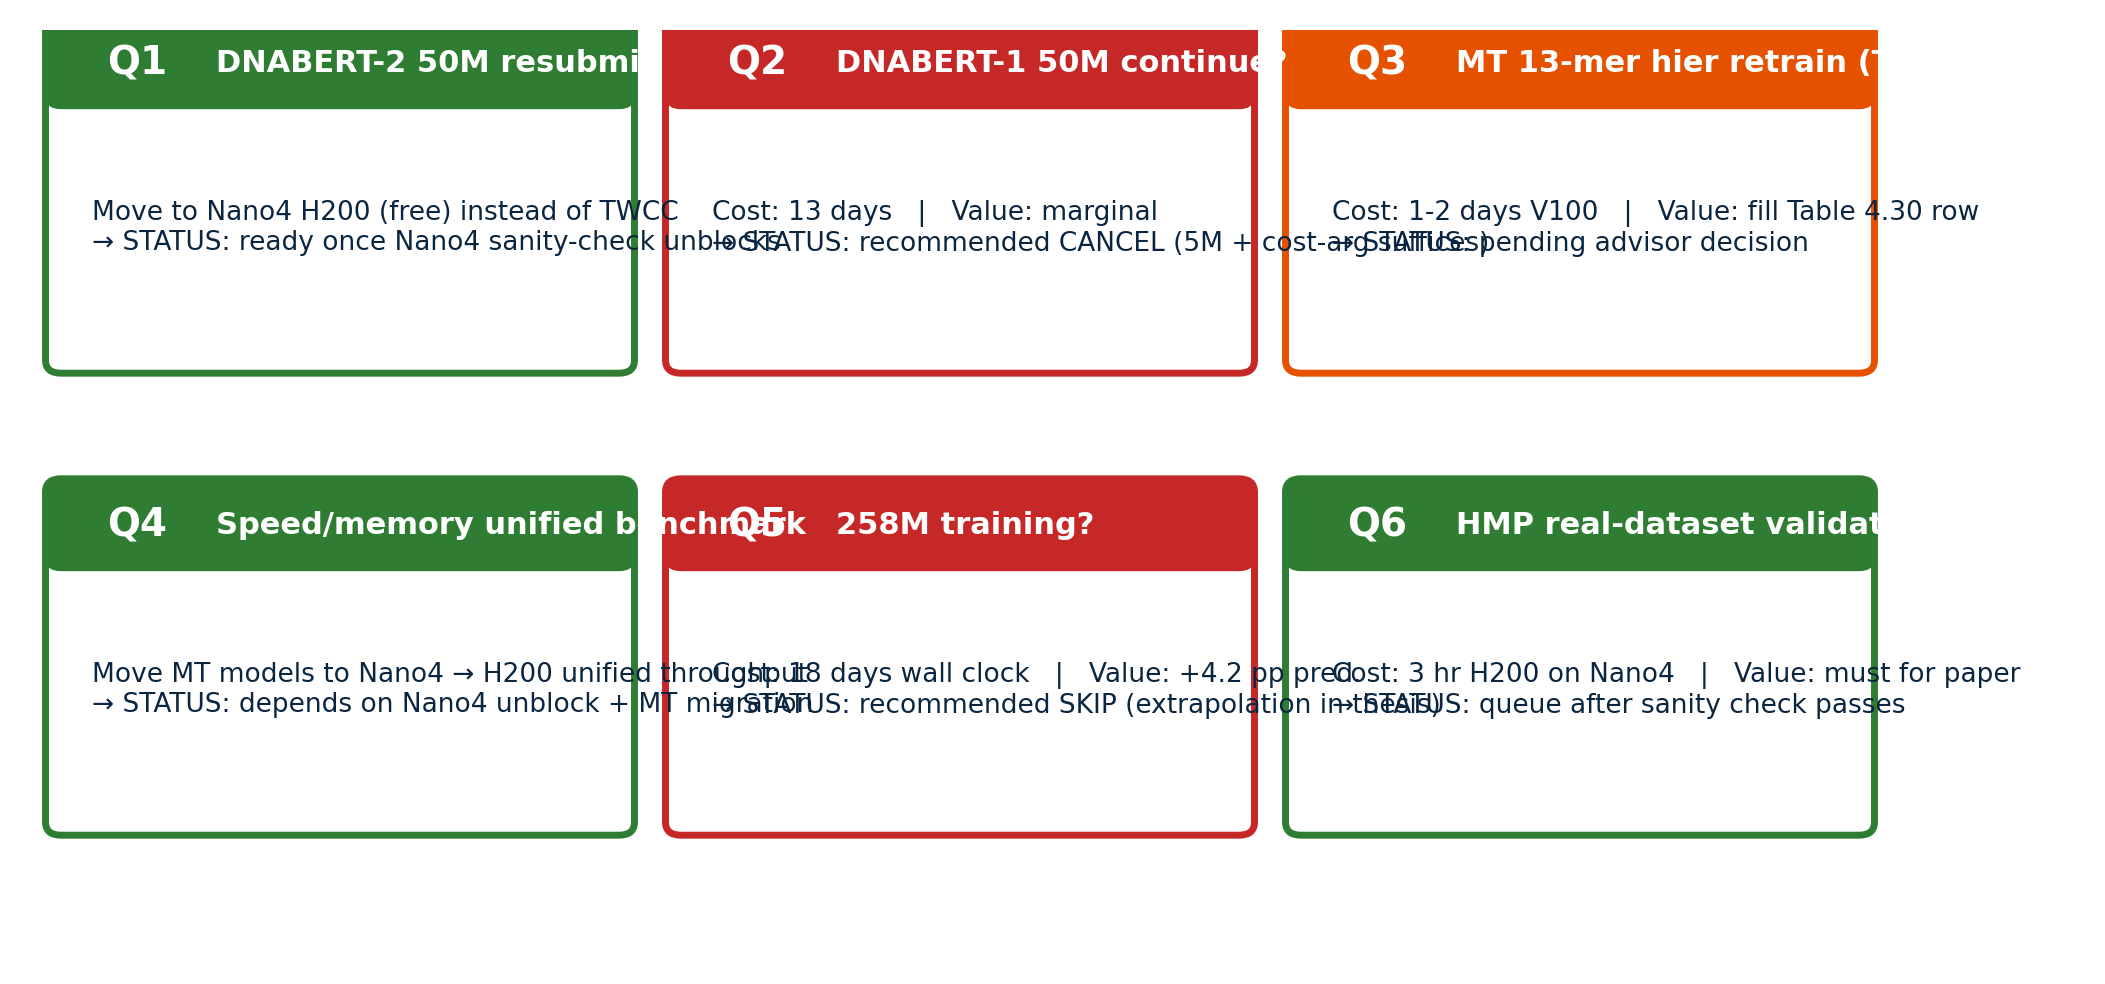
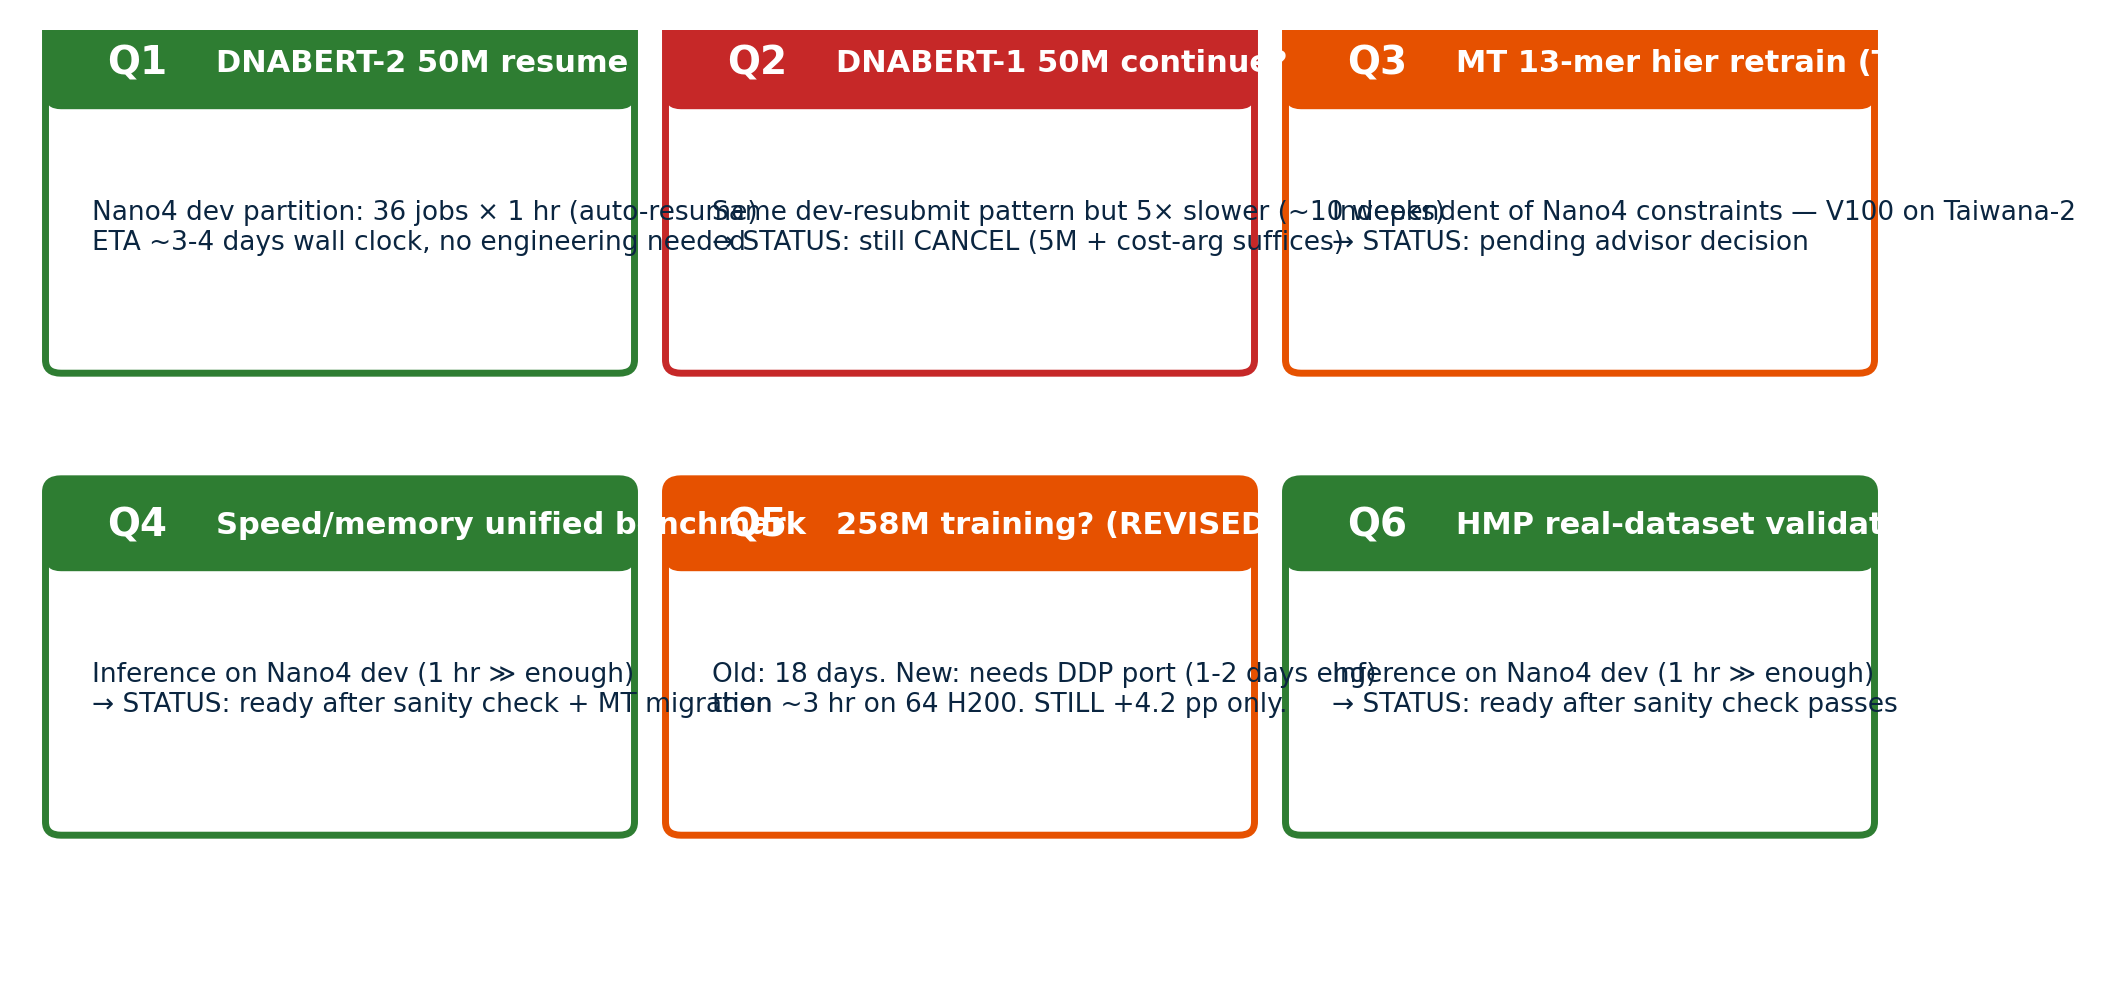
Meeting 6/2 deck: revise with Nano4 partition constraints
- Budget slide now shows Nano4 dev (1 hr, single-GPU) vs normal (12 hr, 64 GPU min)
- Decision Q5 (258M) revised from 'skip' to 'DDP port worth it?' — Nano4 normal
  makes it technically viable in 1-2 days engineering + ~3 hr compute, but
  +4.2 pp value unchanged
- Priorities split 4-way: Taiwana-2/CPU | Nano4 dev | DDP port required | not doing
- Asks revised: Q1 confirm dev-only path, Q2 weigh DDP port for 258M
- Script updated with Nano4 hardware spec + DDP cost analysis Q&A

diff --git a/docs/slides/make_meeting_2026_0602.py b/docs/slides/make_meeting_2026_0602.py
@@ -217,23 +217,23 @@ def fig_decisions_matrix():
     ax.set_xlim(0, 12); ax.set_ylim(0, 7); ax.axis("off")
 
     decisions = [
-        ("Q1", "DNABERT-2 50M resubmit",
-         "Move to Nano4 H200 (free) instead of TWCC\n→ STATUS: ready once Nano4 sanity-check unblocks",
+        ("Q1", "DNABERT-2 50M resume",
+         "Nano4 dev partition: 36 jobs × 1 hr (auto-resume)\nETA ~3-4 days wall clock, no engineering needed",
          GREEN),
         ("Q2", "DNABERT-1 50M continue?",
-         "Cost: 13 days   |   Value: marginal\n→ STATUS: recommended CANCEL (5M + cost-arg suffices)",
+         "Same dev-resubmit pattern but 5× slower (~10 weeks)\n→ STATUS: still CANCEL (5M + cost-arg suffices)",
          RED),
         ("Q3", "MT 13-mer hier retrain (Taiwana-2)?",
-         "Cost: 1-2 days V100   |   Value: fill Table 4.30 row\n→ STATUS: pending advisor decision",
+         "Independent of Nano4 constraints — V100 on Taiwana-2\n→ STATUS: pending advisor decision",
          ORANGE),
         ("Q4", "Speed/memory unified benchmark",
-         "Move MT models to Nano4 → H200 unified throughput\n→ STATUS: depends on Nano4 unblock + MT migration",
+         "Inference on Nano4 dev (1 hr ≫ enough)\n→ STATUS: ready after sanity check + MT migration",
          GREEN),
-        ("Q5", "258M training?",
-         "Cost: 18 days wall clock   |   Value: +4.2 pp pred.\n→ STATUS: recommended SKIP (extrapolation in thesis)",
-         RED),
+        ("Q5", "258M training? (REVISED)",
+         "Old: 18 days. New: needs DDP port (1-2 days eng)\nthen ~3 hr on 64 H200. STILL +4.2 pp only.",
+         ORANGE),
         ("Q6", "HMP real-dataset validation",
-         "Cost: 3 hr H200 on Nano4   |   Value: must for paper\n→ STATUS: queue after sanity check passes",
+         "Inference on Nano4 dev (1 hr ≫ enough)\n→ STATUS: ready after sanity check passes",
          GREEN),
     ]
 
@@ -253,39 +253,63 @@ def fig_decisions_matrix():
 
 
 def fig_budget_status():
-    """TWCC budget out — but Nano4 H200 free 1-month unblocks everything."""
-    fig, ax = plt.subplots(figsize=(11.5, 4.2))
-    ax.set_xlim(0, 12); ax.set_ylim(0, 5); ax.axis("off")
+    """TWCC out → Nano4 H200 free 1-month, but partition constraints matter."""
+    fig, ax = plt.subplots(figsize=(12, 5.2))
+    ax.set_xlim(0, 12); ax.set_ylim(0, 6); ax.axis("off")
 
-    # Top: dual-status banner
-    ax.add_patch(FancyBboxPatch((0.3, 3.2), 5.6, 1.3, boxstyle="round,pad=0.1",
-                                 linewidth=2.5, edgecolor=RED, facecolor="#FFEBEE"))
-    ax.text(3.1, 4.15, "⚠ TWCC (Nano5) wallet: -802.5 pts",
-            ha="center", fontsize=12, fontweight="bold", color=RED)
-    ax.text(3.1, 3.65, "Cannot sbatch new jobs", ha="center", fontsize=10, color=RED)
+    # Top banner: TWCC vs Nano4
+    ax.add_patch(FancyBboxPatch((0.3, 4.4), 5.6, 1.3, boxstyle="round,pad=0.1",
+                                 linewidth=2, edgecolor=RED, facecolor="#FFEBEE"))
+    ax.text(3.1, 5.3, "⚠ TWCC (Nano5) wallet: -802.5 pts",
+            ha="center", fontsize=11.5, fontweight="bold", color=RED)
+    ax.text(3.1, 4.75, "Cannot sbatch new jobs", ha="center", fontsize=9.5, color=RED)
 
-    ax.add_patch(FancyBboxPatch((6.1, 3.2), 5.6, 1.3, boxstyle="round,pad=0.1",
-                                 linewidth=2.5, edgecolor=GREEN, facecolor="#E8F5E9"))
-    ax.text(8.9, 4.15, "✓ Nano4 H200: FREE 1 month",
-            ha="center", fontsize=12, fontweight="bold", color=GREEN)
-    ax.text(8.9, 3.65, "Repo cloned, env up, sanity check blocked on deps",
+    ax.add_patch(FancyBboxPatch((6.1, 4.4), 5.6, 1.3, boxstyle="round,pad=0.1",
+                                 linewidth=2, edgecolor=GREEN, facecolor="#E8F5E9"))
+    ax.text(8.9, 5.3, "✓ Nano4: FREE 1 month, 220 nodes × 8 H200",
+            ha="center", fontsize=11.5, fontweight="bold", color=GREEN)
+    ax.text(8.9, 4.75, "But partition rules constrain single-GPU jobs",
             ha="center", fontsize=9.5, color=GREEN)
 
-    # Three columns: done / blocked / needs unblock
-    cols = [
-        ("✓ Done (no GPU needed)", GREEN,
-         "• GitHub repo published\n• 4 envs STATUS.md filled\n• Thesis 139 pp w/ Table 4.30\n• Per-genus 13-mer (55.93%)"),
-        ("→ In progress on Nano4", TEAL,
-         "• Env setup (✓ conda, deps, data)\n• Sanity check (✗ transformers ver.)\n• Need: downgrade transformers\n• Need: sync DNABERT-2 last.pt"),
-        ("→ Once Nano4 unblocked", GOLD,
-         "• DNABERT-2 50M resume (36 hr)\n• Speed/memory benchmark (3 hr)\n• HMP real-dataset (3 hr)\n• Per-genus 13-mer realign"),
+    # Partition table
+    ax.text(6.0, 4.1, "Nano4 Slurm partitions:", ha="center",
+            fontsize=11, fontweight="bold", color=NAVY)
+
+    headers = ["partition", "max time", "min GPU", "concurrent", "fits our jobs?"]
+    rows = [
+        ["dev",    "1 hr",  "no limit (1 GPU OK)", "5 run / 5 pend",  "inference, benchmark, eval, realign ✓"],
+        ["normal", "12 hr", "min 64 GPU (8 nodes)", "5 run / 5 pend", "training jobs only if DDP-ported ⚠"],
     ]
-    for i, (title, color, body) in enumerate(cols):
-        x = 0.3 + i * 4.0
-        ax.add_patch(FancyBboxPatch((x, 0.2), 3.6, 2.6, boxstyle="round,pad=0.1",
-                                     linewidth=2, edgecolor=color, facecolor=WHITE))
-        ax.text(x + 1.8, 2.55, title, ha="center", fontsize=11, fontweight="bold", color=color)
-        ax.text(x + 0.2, 1.4, body, fontsize=9.5, color=NAVY, va="center")
+    col_x = [0.3, 1.8, 3.0, 5.4, 7.4]
+    col_w = [1.4, 1.2, 2.4, 1.9, 4.5]
+    y_h = 3.55
+    # Header row
+    for j, h in enumerate(headers):
+        ax.add_patch(Rectangle((col_x[j], y_h), col_w[j], 0.4,
+                                facecolor=NAVY, edgecolor="white"))
+        ax.text(col_x[j] + col_w[j]/2, y_h + 0.2, h,
+                ha="center", va="center", fontsize=9.5, color="white", fontweight="bold")
+    # Data rows
+    for i, row in enumerate(rows):
+        y = y_h - (i + 1) * 0.45
+        fc = "#FFF8E1" if i == 1 else "#E3F2FD"
+        for j, v in enumerate(row):
+            ax.add_patch(Rectangle((col_x[j], y), col_w[j], 0.45,
+                                    facecolor=fc, edgecolor="white"))
+            ax.text(col_x[j] + col_w[j]/2, y + 0.22, v,
+                    ha="center", va="center", fontsize=9, color=NAVY)
+
+    # Bottom: implications
+    ax.add_patch(FancyBboxPatch((0.3, 0.15), 11.4, 1.3, boxstyle="round,pad=0.1",
+                                 linewidth=2, edgecolor=GOLD, facecolor="#FFF8E1"))
+    ax.text(6.0, 1.25, "Implications for our pipeline",
+            ha="center", fontsize=11, fontweight="bold", color=GOLD)
+    ax.text(0.6, 0.85, "• Inference / eval / sample-level benchmark (NT-v2, MT, DNABERT-2 eval) — all fit `dev` 1 hr cap ✓",
+            fontsize=9.5, color=NAVY)
+    ax.text(0.6, 0.55, "• DNABERT-2 50M resume — single-GPU, can do dev resubmits (~3-4 days wall clock, auto-resume from last.pt)",
+            fontsize=9.5, color=NAVY)
+    ax.text(0.6, 0.25, "• 258M training (if pursued) — needs DDP port (1-2 days eng) → then ~3 hr on 64 H200; OR not feasible",
+            fontsize=9.5, color=NAVY)
 
     plt.savefig(TMP / "budget.png"); plt.close()
 
@@ -521,38 +545,43 @@ add_header(s, "Recommended Priorities · Next 2 Weeks",
            accent=GREEN, page=9, total=TOTAL)
 
 add_textbox(s,
-    "Immediate (CPU / no GPU needed)",
+    "Now (Taiwana-2 / CPU — no Nano4 needed)",
     Inches(0.5), Inches(1.0), Inches(12.3), Inches(0.5),
-    font_size=16, bold=True, color=GREEN)
+    font_size=15, bold=True, color=GREEN)
 add_textbox(s,
-    "• Realign Per-genus 13-mer (Exp F) on Taiwana-2 → integrate in-DB row of Table 4.30\n"
-    "• Thesis figure regeneration with new aligned MT numbers (53.7%, 94.25%)\n"
-    "• Thesis Section 4.13 proofreading + format consistency check\n"
-    "• Optional: MT 13-mer hier retraining on Taiwana-2 (Q3)",
-    Inches(0.5), Inches(1.5), Inches(12.3), Inches(1.6),
-    font_size=12, color=NAVY, align="left", bg="#E8F5E9", border=GREEN)
+    "• Realign Per-genus 13-mer (Exp F) on Taiwana-2 → integrate Table 4.30\n"
+    "• Thesis figure regeneration with aligned MT numbers (53.7%, 94.25%)\n"
+    "• Section 4.13 proofreading + format check  ·  optional MT 13-mer hier retrain (Q3)",
+    Inches(0.5), Inches(1.5), Inches(12.3), Inches(1.2),
+    font_size=11.5, color=NAVY, align="left", bg="#E8F5E9", border=GREEN)
 
 add_textbox(s,
-    "After Nano4 sanity check unblocks (~45 GPU-hr on H200, FREE)",
-    Inches(0.5), Inches(3.3), Inches(12.3), Inches(0.5),
-    font_size=16, bold=True, color=GOLD)
+    "Fits Nano4 dev partition (1-hr jobs, single-GPU)",
+    Inches(0.5), Inches(2.9), Inches(12.3), Inches(0.5),
+    font_size=15, bold=True, color=TEAL)
 add_textbox(s,
-    "• Sync DNABERT-2 50M last.pt → resume training (36 hr H200 from epoch 17)\n"
-    "• Migrate MT model checkpoints from Taiwana-2 → Nano4\n"
-    "• Run speed/memory unified benchmark on H200 (3 hr) — must-do, advisor ask\n"
-    "• HMP mock community real-dataset inference (3 hr) — paper submission prep",
-    Inches(0.5), Inches(3.8), Inches(12.3), Inches(1.6),
-    font_size=12, color=NAVY, align="left", bg="#FFF8E1", border=GOLD)
+    "• Sanity check NT-Species inference (BLOCKED — fix transformers==4.35.2 first)\n"
+    "• DNABERT-2 50M resume — 36 dev resubmits w/ auto-resume from last.pt (~3-4 days)\n"
+    "• Speed/memory unified benchmark on H200 (~30 min wall clock)\n"
+    "• HMP mock community real-dataset inference (~30 min) — paper prep",
+    Inches(0.5), Inches(3.4), Inches(12.3), Inches(1.6),
+    font_size=11.5, color=NAVY, align="left", bg="#E3F2FD", border=TEAL)
 
 add_textbox(s,
-    "Recommended NOT to do (advisor confirm if disagree)",
-    Inches(0.5), Inches(5.6), Inches(12.3), Inches(0.5),
-    font_size=16, bold=True, color=RED)
+    "Requires DDP port (1-2 days eng) for Nano4 normal partition",
+    Inches(0.5), Inches(5.2), Inches(12.3), Inches(0.5),
+    font_size=15, bold=True, color=GOLD)
 add_textbox(s,
-    "• DNABERT-1 50M continue: ~300 GPU-hr / 13 days — 5M evidence + 11.7 hr/epoch cost argument suffices\n"
-    "• 258M training: ~290 GPU-hr / 18 days — log-fit predicts +4.2 pp, does not cross tokenisation gap",
-    Inches(0.5), Inches(6.1), Inches(12.3), Inches(1.1),
-    font_size=12, color=NAVY, align="left", bg="#FFEBEE", border=RED)
+    "• 258M training (genus +species) — DDP code rewrite, then ~few hr on 64 H200.\n"
+    "  Value: log-fit predicts +4.2 pp, does NOT cross tokenisation gap (MT 13-mer 87.4%)\n"
+    "  → Cost-benefit: 1-2 days engineering for marginal acc improvement",
+    Inches(0.5), Inches(5.7), Inches(12.3), Inches(1.0),
+    font_size=11.5, color=NAVY, align="left", bg="#FFF8E1", border=GOLD)
+
+add_textbox(s,
+    "Not doing — DNABERT-1 50M (300 GPU-hr / 5× slower than DNABERT-2 — single dev partition impractical, ~10 weeks)",
+    Inches(0.5), Inches(6.85), Inches(12.3), Inches(0.4),
+    font_size=10.5, color=RED, align="left", bg="#FFEBEE", border=RED)
 
 
 # ─── SLIDE 10: Ask + Questions ────────────────────────────────────────────
@@ -565,14 +594,15 @@ add_textbox(s,
     font_size=18, bold=True, color=NAVY)
 
 qs = [
-    ("1", "Migration plan: Nano4 takes over",
-     "Confirm Nano4 (H200, free 1-month) replaces TWCC as primary GPU. "
-     "DNABERT-2 resumes on Nano4. TWCC dormant. Speed benchmark on H200. OK?",
+    ("1", "Use Nano4 dev partition for our pipeline",
+     "Nano4 normal needs 64 GPU min (DDP-only). Plan: all our inference + DNABERT-2 "
+     "resume go on dev (1-hr jobs, auto-resume). Speed benchmark / HMP / Per-genus realign "
+     "all fit. OK?",
      GREEN),
-    ("2", "DNABERT-1 50M — final call",
-     "Cancel. Use 5M acc (61.78%) + 11.7 hr/epoch cost vs NT-v2's 2.8 hr "
-     "as deployment-limitation evidence in thesis. Agreed?",
-     RED),
+    ("2", "258M training — DDP port worth it?",
+     "Nano4 normal makes 258M technically viable: 1-2 days DDP port + few hours on 64 H200. "
+     "Predicted gain: +4.2 pp (log-fit), does NOT cross tokenisation gap. Pursue or skip?",
+     ORANGE),
     ("3", "Per-genus 13-mer Exp F integration",
      "Once Taiwana-2 sends realigned predictions, add 4th row to Table 4.30 "
      "showing 55.93% (3rd router-quality data point validating monotonic theorem). OK?",

diff --git a/docs/meetings/meeting_2026_0602_script.md b/docs/meetings/meeting_2026_0602_script.md
@@ -98,76 +98,76 @@ MT 13-mer 對所有 reads 都給 prediction，所以在 low-cardinality task 反
 
 ---
 
-## Slide 7 — Blocker · TWCC Budget vs Nano4 Unblock
+## Slide 7 — Blocker · TWCC Budget vs Nano4 Partition Rules
 
-這張是這週狀況最大變化的一張。**雙 banner**：
+這張是這次最重要的「重新評估」slide。
 
-**紅** · TWCC (Nano5) wallet -802.5 點，5/30 開始無法 sbatch 新 job
-**綠** · Nano4 H200 **免費 1 個月**，repo 已 clone、env 已 setup、data 已 rsync，但 sanity check 卡住
+**上方雙 banner**：
+- 紅 · TWCC (Nano5) wallet -802.5 點，5/30 開始無法 sbatch 新 job
+- 綠 · Nano4 H200 **免費 1 個月**，220 nodes × 8 H200 = 1,760 顆 GPU 的大 cluster
 
-三欄分析：
+**Nano4 Slurm partition 表（重點）**：
 
-**綠 · Done (no GPU)**:
-- GitHub repo 已 publish
-- 4 個 env STATUS.md 都填好
-- Thesis 139 pp 含 Table 4.30
-- Per-genus 13-mer (55.93%) 拿到
+| Partition | Max time | Min GPU | 用途 |
+|---|---|---|---|
+| `dev` | **1 hr** | 1 GPU OK (no limit) | inference / benchmark / eval / realign ✓ |
+| `normal` | 12 hr | **min 64 GPU (8 nodes)** | 訓練 — 但要 DDP-ported 才能跑 ⚠ |
 
-**藍 · In progress on Nano4**:
-- Env setup (conda + deps + data) ✓
-- Sanity check ✗ (transformers 版本不對)
-- 需要：降級 transformers 到 4.35.2
-- 需要：sync DNABERT-2 last.pt 來 resume
+兩個 partition 每位 user 各 5 running + 5 pending。
 
-**金 · Once Nano4 unblocked**:
-- DNABERT-2 50M resume (36 hr H200)
-- Speed/memory benchmark (3 hr)
-- HMP real-dataset (3 hr)
-- Per-genus 13-mer realign
+**底下金色 box · 對我們 pipeline 的影響（這是這頁的核心）**：
 
-下面紅色 takeaway: **TWCC 預算問題用 Nano4 解決，不需要老師加值**。
+1. **Inference / eval / sample-level benchmark**（NT-v2、MT、DNABERT-2 eval）— 全部塞得進 dev 1 hr 上限 ✓
+2. **DNABERT-2 50M resume** — 單 GPU、用 dev 接力 resubmit ~3-4 天 wall clock（auto-resume 已內建）
+3. **258M training（如果要做）**— **需要 DDP port，1-2 天工程**，然後 64 H200 上 ~3 hr；OR 不可行
+
+關鍵句：**Nano4 normal partition 要 64 GPU 起跳，我們現有單 GPU 訓練 script 跑不上去**。要嘛接受 dev 1 hr 接力，要嘛改寫成 DDP 分散式。
+
+這個 partition 限制完全改變 258M 跟其他訓練任務的可行性評估。Slide 8 跟 9 會展開。
 
 ---
 
-## Slide 8 — 6 Decisions · Status Update
+## Slide 8 — 6 Decisions · Status Update (含 Nano4 重新評估)
 
-5/28 列的 6 個 decision points，今天 status:
+5/28 列的 6 個 decision points，套用 Nano4 partition 限制後更新：
 
-- **Q1** (DNABERT-2 resubmit): GREEN — 計畫**搬到 Nano4 H200 跑**（不用 TWCC 加值），等 Nano4 sanity check 解決即可
-- **Q2** (DNABERT-1 50M 取消): RED — 維持取消建議，5M 數據 + 訓練成本論證已足
-- **Q3** (MT 13-mer hier 重訓): ORANGE — 待老師決定（thesis 已標 N/A）
-- **Q4** (Speed benchmark): GREEN — 改在 Nano4 統一 H200 上做（vs 之前 TWCC）
-- **Q5** (258M training): RED — 維持不做建議，用 log-fit 外推取代
-- **Q6** (HMP real-dataset): GREEN — Nano4 sanity check 後排隊執行
+- **Q1** (DNABERT-2 50M resume): GREEN — Nano4 dev partition 36 個 1 hr job 接力（auto-resume）→ ~3-4 天 wall clock，**不需改 code**
+- **Q2** (DNABERT-1 50M 取消): RED — Nano4 dev 接力的話 5× 慢於 DNABERT-2，要 ~10 週 wall clock，**確認取消**
+- **Q3** (MT 13-mer hier 重訓): ORANGE — 跟 Nano4 partition 無關（在 Taiwana-2 V100 上跑），等老師決定
+- **Q4** (Speed/memory benchmark): GREEN — inference 在 Nano4 dev (1 hr 綽綽有餘)，不需 DDP
+- **Q5** (258M training): ORANGE — **重新評估！** 從「18 天 wall clock 不可行」變成「DDP port 1-2 天工程 + ~3 hr 訓練可行」，但**+4.2 pp 仍不影響結論**——值不值得？
+- **Q6** (HMP real-dataset): GREEN — inference 在 Nano4 dev，不需 DDP
 
-關鍵變化：**Nano4 出現讓 Q1、Q4、Q6 從「卡在預算」變成「卡在 Nano4 sanity check」**，
-而 sanity check 是 1 小時就能解的工程問題，不是策略問題。
+**Q5 的重新評估是這頁重點**。原本我們的反對理由是「太久」，現在 partition 細節改變了 → 變成「engineering 成本 1-2 天，但科學價值未變」。要老師重新判斷是不是值得花這 1-2 天。
 
 ---
 
-## Slide 9 — Recommended Priorities · Next 2 Weeks
+## Slide 9 — Recommended Priorities · 分四層（依 Nano4 partition 適用性）
 
-按算力需求分三層。
+按「能不能跑、要多少工程」分四層：
 
-**綠 · Immediate (CPU only)**:
+**綠 · Now (Taiwana-2 / CPU — 不用 Nano4)**:
 - Per-genus 13-mer (Exp F) 在 Taiwana-2 重跑（read order 對齊）→ 補進 Table 4.30
 - Thesis figure 重生（用新 aligned MT 數字 53.7%、94.25%）
-- Thesis Section 4.13 校稿
-- MT 13-mer hier 重訓 (Q3 decision)
+- Section 4.13 校稿 · 選擇性 MT 13-mer hier 重訓 (Q3)
 
-這些都不需要 Nano4，可以立刻做。
+立刻可做，不卡 Nano4。
 
-**金 · After Nano4 unblock (~45 GPU-hr, FREE)**:
-- DNABERT-2 50M resume from epoch 17 (36 hr H200)
-- Migrate MT models from Taiwana-2 → Nano4
-- Speed/memory unified benchmark on H200 (3 hr)
-- HMP mock community inference (3 hr)
+**藍 · Fits Nano4 dev partition (1-hr jobs, 單 GPU)**:
+- Sanity check NT-Species inference — **BLOCKED**，先 `pip install transformers==4.35.2` 修
+- DNABERT-2 50M resume — 36 個 dev 接力 job + auto-resume (~3-4 天 wall clock)
+- Speed/memory unified benchmark on H200 (~30 分鐘)
+- HMP mock community real-dataset inference (~30 分鐘) — paper prep
 
-加總 45 GPU-hr，**全部 Nano4 免費 1 個月內輕鬆 cover**。
+dev partition 限制 1 hr，inference jobs 都很短不是問題，training resume 用 auto-resume 機制每 hr 接續一次也行。**這些都不需要改 code**。
 
-**紅 · Not doing**:
-- DNABERT-1 50M 繼續 (~300 GPU-hr / 13 天，CP 太低)
-- 258M 完整訓練 (~290 GPU-hr / 18 天，log-fit 預測 +4.2 pp 不影響結論)
+**金 · 需要 DDP port 才能跑（1-2 天工程）**:
+- 258M training (genus + species) — 改寫 train.py 成 DDP 分散式，然後 ~幾 hr 在 64 H200 上完成。
+- **價值評估**：log-fit 預測 +4.2 pp，**跨不過 tokenization gap (MT 13-mer 87.4%)**，不會改變 thesis 結論。
+- → Cost-benefit: 1-2 天工程換 marginal accuracy improvement，**老師決定**
+
+**紅 · 不做**:
+- DNABERT-1 50M — 5× 慢於 DNABERT-2，dev 接力要 ~10 週 wall clock，不切實際
 
 ---
 
@@ -175,18 +175,19 @@ MT 13-mer 對所有 reads 都給 prediction，所以在 low-cardinality task 反
 
 三個 decision 請老師確認：
 
-**Q1 (綠) · Migration plan: Nano4 takes over**
-確認 Nano4 (H200, 免費 1 個月) 替代 TWCC 當主要 GPU 環境。DNABERT-2 resume 在 Nano4 跑、
-TWCC 暫停、Speed benchmark 在 H200 統一做。可以嗎？
+**Q1 (綠) · 用 Nano4 dev partition 跑我們 pipeline**
+Nano4 normal 要 64 GPU 起跳（DDP-only），但我們所有 inference 任務 + DNABERT-2 resume
+都塞得進 dev (1 hr / job, 5 concurrent)。Speed benchmark、HMP、Per-genus realign 全部
+夠用。**確認走 dev partition 路線（不改 code）可以嗎？**
 
-**Q2 (紅) · DNABERT-1 50M 最終決定**
-取消。用 5M accuracy (61.78%) + 11.7 hr/epoch（vs NT-v2 2.8 hr）的訓練成本對比，
-當作 deployment limitation 證據寫進 thesis。同意嗎？
+**Q2 (橙) · 258M training — 要不要花 1-2 天工程做 DDP port？**
+重新評估：Nano4 normal 64 H200 + DDP 可以讓 258M 訓練從「18 天 wall clock」變成「1-2 天工程 + 幾小時訓練」。
+**但科學價值未變**——log-fit 預測 +4.2 pp，跨不過 MT 13-mer 87.4% 的 tokenization gap。
+這 1-2 天工程值得嗎？或是把這時間花在 paper writing / HMP validation 更好？
 
 **Q3 (金) · Per-genus 13-mer Exp F 整合**
-Taiwana-2 送來對齊版預測後，把 55.93% 加進 Table 4.30 第 4 列，作為 router-quality
-threshold 第三個 monotonic data point（87.5% router 在 per-genus pipeline 也驗證
-+2.23 pp gain）。可以嗎？
+Taiwana-2 送來對齊版預測後，把 55.93% 加進 Table 4.30，作為 router-quality threshold
+第三個 monotonic data point（87.5% router 在 per-genus pipeline 驗證 +2.23 pp gain）。同意嗎？
 
 ---
 
@@ -224,6 +225,25 @@ A: 完全一致！這就是 **router quality threshold theorem** 的證據：
 - 87.5% router (MT 13-mer) → hier 比 flat 高 (+1.12 pp read level / +2.23 pp per-genus)
 - 48.9% router (MT 6-mer) → hier 比 flat 低更多 (-2.8 pp)
 三個 router quality 完美 monotonic，theorem 成立。
+
+### Q: Nano4 normal partition 為什麼要 64 GPU 起跳？這是什麼設計？
+A: 晶創 26 (Nano4) 是 HPC scale 設計，每 node 8 H200 + 8 InfiniBand 400 Gbps。
+normal partition 設計給大規模 distributed training（LLM pre-training 等級），最小單位是
+8 個 node = 64 GPU。我們現有 single-GPU LoRA fine-tuning 不在這個 use case，要嘛
+適應 dev (1 hr 上限) 要嘛改寫成 DDP。
+
+### Q: 為什麼我們的 code 不是 DDP？
+A: NT-v2 + LoRA + 50M dataset 在單顆 H100 上 14 hr 跑完，沒必要 distributed。
+DDP overhead（NCCL init、gradient all-reduce、checkpoint coordination）對小 model 反而
+拖累。設計時的 trade-off。現在 Nano4 normal 強制 64 GPU 才暴露這個 mismatch。
+
+### Q: DDP port 真的要 1-2 天嗎？
+A: 嚴格的估算：
+- DistributedSampler、DDP wrap、torchrun init: 半天
+- per-rank logging、rank-0 only checkpointing: 半天
+- 多 node debug (NCCL config、network config): 0.5-1 天
+- Sanity check 在 8 node 確認 loss 跟單 GPU 一致: 0.5 天
+總計 1-2 天。但這個 code 改完之後可以重複用，是 reusable infrastructure investment。
 
 ---
 